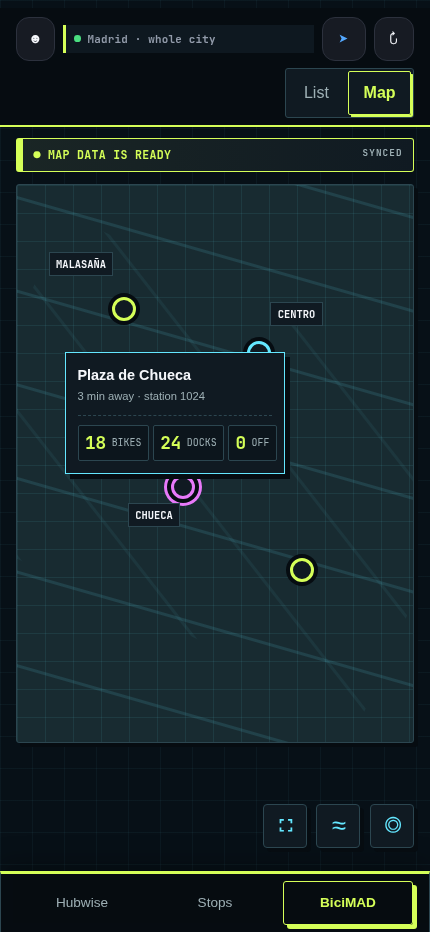
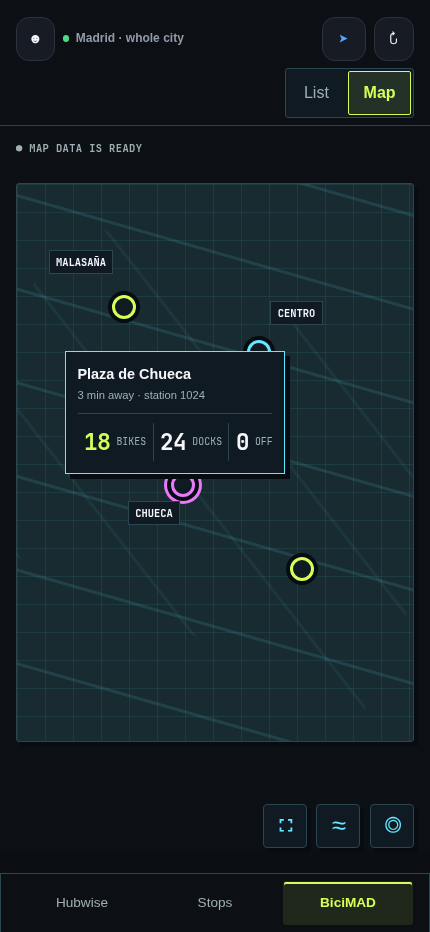
Refine signal hierarchy and responsive design studies

diff --git a/design/system-hubs.html b/design/system-hubs.html
@@ -1,3 +1,3 @@
 <!doctype html>
 <html lang="en" data-theme="dark"><head><meta charset="utf-8"><meta name="viewport" content="width=device-width,initial-scale=1"><title>Hubwise system hubs</title><link rel="stylesheet" href="../web/style.css"><style>body{min-height:100dvh}.study-label{margin:.7rem 0 .2rem;color:var(--signal-muted);font:700 .62rem ui-monospace,monospace;letter-spacing:.1em;text-transform:uppercase}</style></head>
-<body class="ui-signal ui-signal-v2 ui-signal-compact ui-signal-system"><header><button id="auth-button">☻</button><div id="header-context"><i></i><span>García Luna · 3 min</span></div><button id="nearby-stops-open">➤</button><button id="refresh-all">↻</button><nav id="view-toggle" class="segmented"><button aria-selected="true">List</button><button aria-selected="false">Map</button></nav></header><p id="status">● LIVE DATA IS READY</p><p class="study-label">Nearby hubs · expanded state</p><main id="stops"><article class="place-card reachability-comfortable routes-expanded"><div class="place-card-heading"><h2><span class="freshness-dot fresh">— &lt;1m</span> Madrid Río</h2><span class="muted">280 m</span><button class="place-directions">⌁</button><button class="place-directions">♢</button><button class="place-directions">⋯</button></div><div class="place-route"><span class="place-line">27</span><p><b>Alcalá de Henares</b></p><span class="route-later">then 40 · 52</span><time>4 min</time></div><div class="place-route place-route-alternative"><span class="place-line">5</span><p><b>Alcalá de Henares</b></p><span class="route-later">then 27</span><time>6 min</time></div><p class="age">Updated 12 seconds ago · 2 direct routes</p></article><article class="place-card reachability-tight"><div class="place-card-heading"><h2><span class="freshness-dot aging">— &lt;5m</span> Puerta del Sol</h2><span class="muted">510 m</span><button class="place-directions">⌁</button><button class="place-directions">♢</button><button class="place-directions">⋯</button></div><div class="place-route"><span class="place-line">3</span><p><b>Villaverde</b></p><span class="route-later">then 5 · 40</span><time>7 min</time></div></article><article class="place-card"><div class="place-card-heading"><h2><span class="freshness-dot fresh">— &lt;1m</span> Tribunal</h2><span class="muted">690 m</span><button class="place-directions">⌁</button><button class="place-directions">♢</button><button class="place-directions">⋯</button></div><div class="place-route"><span class="place-line">10</span><p><b>Puente de Vallecas</b></p><span class="route-later">then 5 · 40</span><time>9 min</time></div></article></main><nav id="primary-menu"><button aria-selected="true">Hubwise</button><button aria-selected="false">Stops</button><button aria-selected="false">BiciMAD</button></nav><button id="fab">+</button></body></html>
+<body class="ui-signal ui-signal-v2 ui-signal-compact ui-signal-system"><header><button id="auth-button">☻</button><div id="header-context"><i></i><span>García Luna · 3 min</span></div><button id="nearby-stops-open">➤</button><button id="refresh-all">↻</button><nav id="view-toggle" class="segmented"><button aria-selected="true">List</button><button aria-selected="false">Map</button></nav></header><p id="status">Live arrivals · updated just now</p><p class="study-label">Nearby hubs · expanded state</p><main id="stops"><article class="place-card reachability-comfortable routes-expanded"><div class="place-card-heading"><h2><span class="freshness-dot fresh"></span> Madrid Río</h2><span class="muted">280 m</span><button class="place-directions">⌁</button><button class="place-directions">♢</button><button class="place-directions">⋯</button></div><div class="place-route"><span class="place-line">27</span><p><button class="stop-open place-stop-open">Stop 1836 · 180 m walk</button><br><small>direct <span class="route-later">· then 40 · 52 min</span></small></p><button class="place-route-directions" aria-label="Walking directions">↗</button><time>4 min</time></div><div class="place-route place-route-alternative"><span class="place-line">5</span><p><button class="stop-open place-stop-open">Stop 1836 · 180 m walk</button><br><small>direct <span class="route-later">· then 27 min</span></small></p><button class="place-route-directions" aria-label="Walking directions">↗</button><time>6 min</time></div><p class="age">Updated 12 seconds ago · 2 direct routes</p></article><article class="place-card reachability-tight"><div class="place-card-heading"><h2><span class="freshness-dot aging"></span> Puerta del Sol</h2><span class="muted">510 m</span><button class="place-directions">⌁</button><button class="place-directions">♢</button><button class="place-directions">⋯</button></div><div class="place-route"><span class="place-line">3</span><p><button class="stop-open place-stop-open">Stop 1836 · 180 m walk</button><br><small>direct <span class="route-later">· then 5 · 40 min</span></small></p><button class="place-route-directions" aria-label="Walking directions">↗</button><time>7 min</time></div></article><article class="place-card"><div class="place-card-heading"><h2><span class="freshness-dot fresh"></span> Tribunal</h2><span class="muted">690 m</span><button class="place-directions">⌁</button><button class="place-directions">♢</button><button class="place-directions">⋯</button></div><div class="place-route"><span class="place-line">10</span><p><button class="stop-open place-stop-open">Stop 1836 · 180 m walk</button><br><small>direct <span class="route-later">· then 5 · 40 min</span></small></p><button class="place-route-directions" aria-label="Walking directions">↗</button><time>9 min</time></div></article></main><nav id="primary-menu"><button aria-selected="true">Hubwise</button><button aria-selected="false">Stops</button><button aria-selected="false">BiciMAD</button></nav><button id="fab">+</button></body></html>

diff --git a/design/system-stops.html b/design/system-stops.html
@@ -1,3 +1,3 @@
 <!doctype html>
 <html lang="en" data-theme="dark"><head><meta charset="utf-8"><meta name="viewport" content="width=device-width,initial-scale=1"><title>Hubwise system stops</title><link rel="stylesheet" href="../web/style.css"><style>body{min-height:100dvh}.study-label{margin:.7rem 0 .2rem;color:var(--signal-muted);font:700 .62rem ui-monospace,monospace;letter-spacing:.1em;text-transform:uppercase}</style></head>
-<body class="ui-signal ui-signal-v2 ui-signal-compact ui-signal-system"><header><button id="auth-button">☻</button><div id="header-context"><i></i><span>4 saved stops</span></div><button id="nearby-stops-open">➤</button><button id="refresh-all">↻</button><nav id="view-toggle" class="segmented"><button aria-selected="true">List</button><button aria-selected="false">Map</button></nav></header><p id="status">● LIVE DATA IS READY</p><p class="study-label">Saved stops · live arrivals</p><main id="stops"><article class="stop"><div class="head"><div class="title"><h2><span class="freshness-dot fresh">— &lt;1m</span> Puerta del Sol</h2><p class="stop-num">Stop 30 · Metro Sol</p></div><div class="controls"><button class="icon-btn">›</button><button class="icon-btn">♧</button><button class="icon-btn">⌁</button></div></div><ul><li><span class="line">5</span><span class="destination">Casa de Campo</span><span class="eta">2 min</span></li><li><span class="line">3</span><span class="destination">Villaverde</span><span class="eta">7 min</span></li><li><span class="line">40</span><span class="destination">Tribunal</span><span class="eta">11 min</span></li></ul><p class="age">Updated 12 seconds ago</p></article><article class="stop"><div class="head"><div class="title"><h2><span class="freshness-dot aging">— &lt;5m</span> Plaza de Castilla</h2><p class="stop-num">Stop 1547 · Chamberí</p></div><div class="controls"><button class="icon-btn">›</button><button class="icon-btn">♧</button><button class="icon-btn">⌁</button></div></div><ul><li><span class="line">1</span><span class="destination">Valdecarros</span><span class="eta">3 min</span></li><li><span class="line">9</span><span class="destination">Argentina</span><span class="eta">6 min</span></li></ul><p class="age">Updated 1 minute ago</p></article><article class="stop"><div class="head"><div class="title"><h2><span class="freshness-dot fresh">— &lt;1m</span> Tribunal</h2><p class="stop-num">Stop 2659 · Tribunal</p></div><div class="controls"><button class="icon-btn">›</button><button class="icon-btn">♧</button><button class="icon-btn">⌁</button></div></div><ul><li><span class="line">10</span><span class="destination">Puente de Vallecas</span><span class="eta">9 min</span></li><li><span class="line">51</span><span class="destination">Callas</span><span class="eta">14 min</span></li></ul><p class="age">Updated 18 seconds ago</p></article></main><nav id="primary-menu"><button aria-selected="false">Hubwise</button><button aria-selected="true">Stops</button><button aria-selected="false">BiciMAD</button></nav></body></html>
+<body class="ui-signal ui-signal-v2 ui-signal-compact ui-signal-system"><header><button id="auth-button">☻</button><div id="header-context"><i></i><span>3 saved stops</span></div><button id="nearby-stops-open">➤</button><button id="refresh-all">↻</button><nav id="view-toggle" class="segmented"><button aria-selected="true">List</button><button aria-selected="false">Map</button></nav></header><p id="status">Live arrivals · updated just now</p><p class="study-label">Saved stops · live arrivals</p><main id="stops"><article class="stop"><div class="head"><div class="title"><h2><span class="freshness-dot fresh"></span> Puerta del Sol</h2><p class="stop-num">Stop 30 · Metro Sol</p></div><div class="controls"><button class="icon-btn">›</button><button class="icon-btn">♧</button><button class="icon-btn">⌁</button></div></div><ul><li><span class="line">5</span><span class="destination">Casa de Campo</span><span class="eta">2 min</span></li><li><span class="line">3</span><span class="destination">Villaverde</span><span class="eta">7 min</span></li><li><span class="line">40</span><span class="destination">Tribunal</span><span class="eta">11 min</span></li></ul><p class="age">Updated 12 seconds ago</p></article><article class="stop"><div class="head"><div class="title"><h2><span class="freshness-dot aging"></span> Plaza de Castilla</h2><p class="stop-num">Stop 1547 · Chamberí</p></div><div class="controls"><button class="icon-btn">›</button><button class="icon-btn">♧</button><button class="icon-btn">⌁</button></div></div><ul><li><span class="line">1</span><span class="destination">Valdecarros</span><span class="eta">3 min</span></li><li><span class="line">9</span><span class="destination">Argentina</span><span class="eta">6 min</span></li></ul><p class="age">Updated 1 minute ago</p></article><article class="stop"><div class="head"><div class="title"><h2><span class="freshness-dot fresh"></span> Tribunal</h2><p class="stop-num">Stop 2659 · Tribunal</p></div><div class="controls"><button class="icon-btn">›</button><button class="icon-btn">♧</button><button class="icon-btn">⌁</button></div></div><ul><li><span class="line">10</span><span class="destination">Puente de Vallecas</span><span class="eta">9 min</span></li><li><span class="line">51</span><span class="destination">Callas</span><span class="eta">14 min</span></li></ul><p class="age">Updated 18 seconds ago</p></article></main><nav id="primary-menu"><button aria-selected="false">Hubwise</button><button aria-selected="true">Stops</button><button aria-selected="false">BiciMAD</button></nav></body></html>

diff --git a/design/system-sheet.html b/design/system-sheet.html
@@ -1,3 +1,3 @@
 <!doctype html>
-<html lang="en" data-theme="dark"><head><meta charset="utf-8"><meta name="viewport" content="width=device-width,initial-scale=1"><title>Hubwise system sheet</title><link rel="stylesheet" href="../web/style.css"><style>body{min-height:100dvh;background:#071017}.veil{position:fixed;inset:0;background:rgb(0 0 0/.62);z-index:1}dialog[open]{position:fixed;z-index:2;inset:auto 1rem 1rem;margin:0 auto;width:min(94vw,30rem);max-height:80dvh;overflow:auto}dialog h2{margin:0}.sheet-title-row{border-bottom:1px solid var(--signal-line);padding-bottom:.6rem}.sheet-title-row h2{font-size:1.1rem}.stop-num{margin:.25rem 0 .7rem}.sheet-arrivals{list-style:none;padding:0;margin:0}.sheet-arrivals li{display:grid;grid-template-columns:3rem 1fr auto;gap:.5rem;padding:.65rem 0;border-bottom:1px dashed var(--signal-line)}.sheet-arrivals .line{color:var(--signal-coral);font:800 1.5rem ui-monospace,monospace}.sheet-arrivals .destination{color:var(--fg);font-weight:650}.sheet-arrivals .eta{color:var(--signal-lime);font:800 1rem ui-monospace,monospace}.dialog-actions{display:flex;gap:.4rem;margin-top:.8rem}.dialog-actions button{flex:1}</style></head>
-<body class="ui-signal ui-signal-v2 ui-signal-compact ui-signal-system"><header><button id="auth-button">☻</button><div id="header-context"><i></i><span>4 saved stops</span></div><button id="nearby-stops-open">➤</button><button id="refresh-all">↻</button><nav id="view-toggle" class="segmented"><button aria-selected="true">List</button><button aria-selected="false">Map</button></nav></header><p id="status">● LIVE DATA IS READY</p><main id="stops"><article class="stop"><div class="title"><h2>Puerta del Sol</h2><p class="stop-num">Stop 30 · Metro Sol</p></div><p class="age">Updated 12 seconds ago</p></article></main><div class="veil"></div><dialog open><div class="sheet-title-row"><h2>Puerta del Sol</h2><button>☆</button><button>✎</button></div><p class="stop-num">Stop 30 · Metro Sol</p><div id="sheet-map"></div><ul class="sheet-arrivals"><li><span class="line">5</span><span class="destination">Casa de Campo</span><span class="eta">2 min</span></li><li><span class="line">3</span><span class="destination">Villaverde</span><span class="eta">7 min</span></li><li><span class="line">40</span><span class="destination">Tribunal</span><span class="eta">11 min</span></li></ul><details><summary>Lines and hours today</summary></details><div class="dialog-actions"><button>Remove</button><button>⌁</button><button>Close</button></div></dialog><nav id="primary-menu"><button aria-selected="false">Hubwise</button><button aria-selected="true">Stops</button><button aria-selected="false">BiciMAD</button></nav></body></html>
+<html lang="en" data-theme="dark"><head><meta charset="utf-8"><meta name="viewport" content="width=device-width,initial-scale=1"><title>Hubwise system sheet</title><link rel="stylesheet" href="../web/style.css"><style>body{min-height:100dvh}.veil{position:fixed;inset:0;background:rgb(0 0 0/.62);z-index:1}dialog[open]{position:fixed;z-index:2;inset:auto 1rem 1rem;margin:0 auto;width:min(94vw,30rem);max-height:80dvh;overflow:auto}dialog h2{margin:0}.sheet-title-row{border-bottom:1px solid var(--signal-line);padding-bottom:.6rem}.sheet-title-row h2{font-size:1.1rem}.stop-num{margin:.25rem 0 .7rem}.sheet-arrivals{list-style:none;padding:0;margin:0}.sheet-arrivals li{display:grid;grid-template-columns:3rem 1fr auto;gap:.5rem;padding:.65rem 0;border-bottom:1px dashed var(--signal-line)}.sheet-arrivals .line{color:var(--signal-coral);font:800 1.5rem ui-monospace,monospace}.sheet-arrivals .destination{color:var(--fg);font-weight:650}.sheet-arrivals .eta{color:var(--signal-lime);font:800 1rem ui-monospace,monospace}.dialog-actions{display:flex;gap:.4rem;margin-top:.8rem}.dialog-actions button{flex:1}</style></head>
+<body class="ui-signal ui-signal-v2 ui-signal-compact ui-signal-system"><header><button id="auth-button">☻</button><div id="header-context"><i></i><span>3 saved stops</span></div><button id="nearby-stops-open">➤</button><button id="refresh-all">↻</button><nav id="view-toggle" class="segmented"><button aria-selected="true">List</button><button aria-selected="false">Map</button></nav></header><p id="status">Live arrivals · updated just now</p><main id="stops"><article class="stop"><div class="title"><h2>Puerta del Sol</h2><p class="stop-num">Stop 30 · Metro Sol</p></div><p class="age">Updated 12 seconds ago</p></article></main><div class="veil"></div><dialog open><div class="sheet-title-row"><h2>Puerta del Sol</h2><button>☆</button><button>✎</button></div><p class="stop-num">Stop 30 · Metro Sol</p><div id="sheet-map"></div><ul class="sheet-arrivals"><li><span class="line">5</span><span class="destination">Casa de Campo</span><span class="eta">2 min</span></li><li><span class="line">3</span><span class="destination">Villaverde</span><span class="eta">7 min</span></li><li><span class="line">40</span><span class="destination">Tribunal</span><span class="eta">11 min</span></li></ul><details><summary>Lines and hours today</summary></details><div class="dialog-actions"><button>Remove</button><button>⌁</button><button>Close</button></div></dialog><nav id="primary-menu"><button aria-selected="false">Hubwise</button><button aria-selected="true">Stops</button><button aria-selected="false">BiciMAD</button></nav></body></html>

diff --git a/web/style.css b/web/style.css
@@ -2287,3 +2287,154 @@ body.nav-hidden #fab { transform: translateY(calc(100% + 4.15rem + env(safe-area
     animation-duration: 0.01ms !important;
   }
 }
+
+/* System refinement: give departures priority over decorative chrome. */
+:root .ui-signal.ui-signal-system {
+  background-color: var(--bg);
+  background-image: none;
+}
+
+.ui-signal-system header {
+  flex-shrink: 0;
+  border-bottom: 1px solid var(--signal-line);
+  background: var(--bg);
+}
+
+.ui-signal-system #header-context {
+  padding-left: 0;
+  border: 0;
+  background: transparent;
+  font: 650 0.75rem/1.4 system-ui, sans-serif;
+  letter-spacing: 0;
+}
+
+.ui-signal-system #status {
+  margin-block: 0.7rem;
+  padding: 0.25rem 0;
+  border: 0;
+  background: transparent;
+  color: var(--signal-muted);
+  font-size: 0.65rem;
+  letter-spacing: 0.04em;
+}
+
+/* Status text comes from the app; never imply that stale data is synced. */
+.ui-signal-system #status::after { content: none; }
+
+.ui-signal-system .segmented button[aria-selected="true"] {
+  background: color-mix(in srgb, var(--signal-lime) 10%, var(--signal-panel));
+  box-shadow: none;
+}
+
+.ui-signal-system .place-card,
+.ui-signal-system .stop,
+.ui-signal-system .bike {
+  margin-top: 0.65rem;
+  padding: 0.8rem;
+  border-radius: 6px;
+  background: var(--signal-panel);
+  box-shadow: 0 2px 0 color-mix(in srgb, var(--signal-ink) 15%, transparent);
+}
+
+.ui-signal-system .place-card::before,
+.ui-signal-system .stop::before { content: none; }
+
+.ui-signal-system .place-card.reachability-comfortable,
+.ui-signal-system .place-card.reachability-tight,
+.ui-signal-system .place-card.reachability-missed { border-left-width: 3px; }
+
+.ui-signal-system .place-card-heading {
+  grid-template-columns: minmax(0, 1fr) repeat(3, 36px);
+  gap: 0.2rem;
+}
+
+.ui-signal-system .place-card-heading h2 {
+  grid-column: 1 / -1;
+  font-size: 1rem;
+  line-height: 1.4;
+}
+
+.ui-signal-system .place-card-heading > span { font-size: 0.72rem; }
+
+.ui-signal-system .place-directions,
+.ui-signal-system .place-card-heading .track-button,
+.ui-signal-system .place-route-directions,
+.ui-signal-system .icon-btn {
+  width: 36px;
+  min-height: 36px;
+}
+
+.ui-signal-system .place-route {
+  grid-template-columns: 2.6rem minmax(0, 1fr) 36px auto;
+  gap: 0.45rem;
+  margin-top: 0.35rem;
+  padding-top: 0.65rem;
+  border-top-style: solid;
+}
+
+.ui-signal-system .place-route p { min-width: 0; overflow-wrap: anywhere; }
+.ui-signal-system .place-stop-open { text-align: left; }
+.ui-signal-system .place-line,
+.ui-signal-system .line { letter-spacing: -0.07em; }
+.ui-signal-system .place-line::after,
+.ui-signal-system .line::after { content: none; }
+
+.ui-signal-system .place-route time,
+.ui-signal-system .stop .eta {
+  color: var(--signal-lime);
+  white-space: nowrap;
+  text-shadow: none;
+  font-variant-numeric: tabular-nums;
+}
+
+.ui-signal-system .freshness-dot.fresh { color: var(--success); }
+.ui-signal-system .freshness-dot.aging { color: var(--warning); }
+.ui-signal-system .freshness-dot.stale { color: var(--danger); }
+
+.ui-signal-system .stop .head,
+.ui-signal-system .bike-head { flex-wrap: wrap; gap: 0.4rem; }
+.ui-signal-system .stop .title,
+.ui-signal-system .bike-head .title { min-width: 0; flex: 1 1 11rem; }
+.ui-signal-system .stop .title h2,
+.ui-signal-system .bike-head .title h2 { line-height: 1.4; }
+.ui-signal-system .controls { padding: 0; border: 0; background: transparent; }
+.ui-signal-system .stop li::before { content: none; }
+.ui-signal-system .stop li {
+  grid-template-columns: 2.6rem minmax(0, 1fr) auto;
+  padding-block: 0.7rem;
+  border-bottom-style: solid;
+}
+.ui-signal-system .stop .destination { grid-column: 2; font-size: 0.82rem; }
+.ui-signal-system .stop .eta { grid-column: 3; }
+.ui-signal-system .age { margin-bottom: 0; line-height: 1.5; }
+
+.ui-signal-system .bike-counts { gap: 0; border-top-style: solid; }
+.ui-signal-system .bike-metric { border: 0; border-radius: 0; background: transparent; }
+.ui-signal-system .bike-metric + .bike-metric { border-left: 1px solid var(--signal-line); }
+.ui-signal-system .bike-metric strong { font-size: 1.4rem; }
+.ui-signal-system .bike-metric:not(.good):not(.low):not(.empty) strong { color: var(--fg); }
+
+.ui-signal-system #primary-menu {
+  border-top: 1px solid var(--signal-line);
+  background: var(--bg);
+  box-shadow: 0 -6px 20px rgb(0 0 0 / 0.08);
+}
+.ui-signal-system #primary-menu button[aria-selected="true"] {
+  border-color: transparent;
+  background: color-mix(in srgb, var(--signal-lime) 10%, var(--bg));
+  box-shadow: inset 0 2px var(--signal-lime);
+}
+.ui-signal-system #fab {
+  color: var(--bg);
+  border-color: var(--signal-lime);
+  box-shadow: 3px 3px 0 color-mix(in srgb, var(--signal-lime) 25%, var(--bg));
+}
+.ui-signal-system :is(button, a, summary, [tabindex]):focus-visible {
+  outline: 2px solid var(--signal-cyan);
+  outline-offset: 3px;
+}
+
+.ui-signal-system .bike-account {
+  border-radius: 6px;
+  box-shadow: none;
+}

diff --git a/design/system-bikes.html b/design/system-bikes.html
@@ -1,3 +1,3 @@
 <!doctype html>
 <html lang="en" data-theme="dark"><head><meta charset="utf-8"><meta name="viewport" content="width=device-width,initial-scale=1"><title>Hubwise system bikes</title><link rel="stylesheet" href="../web/style.css"><style>body{min-height:100dvh}.study-label{margin:.7rem 0 .2rem;color:var(--signal-muted);font:700 .62rem ui-monospace,monospace;letter-spacing:.1em;text-transform:uppercase}</style></head>
-<body class="ui-signal ui-signal-v2 ui-signal-compact ui-signal-system"><header><button id="auth-button">☻</button><div id="header-context"><i></i><span>Whole city · updated now</span></div><button id="nearby-stops-open">➤</button><button id="refresh-all">↻</button><nav id="view-toggle" class="segmented"><button aria-selected="true">List</button><button aria-selected="false">Map</button></nav></header><p id="status">● LIVE DATA IS READY</p><p class="study-label">BiciMAD nearby · 2 docks</p><section class="bike-account"><span class="bike-account-dot ready"></span><span id="bike-account-text"><span>Account active</span><small class="bike-account-freshness">checked 2m ago</small></span><button>Trips</button></section><main id="bikes"><article class="bike"><div class="bike-head"><div class="title"><h2><span class="freshness-dot fresh">— &lt;1m</span> Plaza de Chueca</h2><p class="stop-num">18 bikes · 24 docks · 3 min</p></div><span class="bike-card-distance">3 min</span><div class="controls"><button class="bike-favourite">★</button><button class="bike-directions">⌁</button></div></div><div class="bike-counts"><div class="bike-metric good"><strong>18</strong><span>bikes</span></div><div class="bike-metric"><strong>24</strong><span>docks</span></div><div class="bike-metric"><strong>0</strong><span>disabled</span></div></div><p class="age">Available now · 18 electric bikes</p></article><article class="bike"><div class="bike-head"><div class="title"><h2><span class="freshness-dot fresh">— &lt;1m</span> Calle de Bravo Murillo</h2><p class="stop-num">11 bikes · 20 docks · 5 min</p></div><span class="bike-card-distance">5 min</span><div class="controls"><button class="bike-favourite">☆</button><button class="bike-directions">⌁</button></div></div><div class="bike-counts"><div class="bike-metric good"><strong>11</strong><span>bikes</span></div><div class="bike-metric"><strong>20</strong><span>docks</span></div><div class="bike-metric"><strong>1</strong><span>disabled</span></div></div><p class="age">Available now · 11 electric bikes</p></article></main><nav id="primary-menu"><button aria-selected="false">Hubwise</button><button aria-selected="false">Stops</button><button aria-selected="true">BiciMAD</button></nav></body></html>
+<body class="ui-signal ui-signal-v2 ui-signal-compact ui-signal-system"><header><button id="auth-button">☻</button><div id="header-context"><i></i><span>Whole city · updated now</span></div><button id="nearby-stops-open">➤</button><button id="refresh-all">↻</button><nav id="view-toggle" class="segmented"><button aria-selected="true">List</button><button aria-selected="false">Map</button></nav></header><p id="status">Live arrivals · updated just now</p><p class="study-label">BiciMAD nearby · 2 docks</p><section class="bike-account"><span class="bike-account-dot ready"></span><span id="bike-account-text"><span>Account active</span><small class="bike-account-freshness">checked 2m ago</small></span><button>Trips</button></section><main id="bikes"><article class="bike"><div class="bike-head"><div class="title"><h2><span class="freshness-dot fresh"></span> Plaza de Chueca</h2><p class="stop-num">18 bikes · 24 docks · 3 min</p></div><span class="bike-card-distance">3 min</span><div class="controls"><button class="bike-favourite">★</button><button class="bike-directions">⌁</button></div></div><div class="bike-counts"><div class="bike-metric good"><strong>18</strong><span>bikes</span></div><div class="bike-metric"><strong>24</strong><span>docks</span></div><div class="bike-metric"><strong>0</strong><span>disabled</span></div></div><p class="age">Available now · 18 electric bikes</p></article><article class="bike"><div class="bike-head"><div class="title"><h2><span class="freshness-dot fresh"></span> Calle de Bravo Murillo</h2><p class="stop-num">11 bikes · 20 docks · 5 min</p></div><span class="bike-card-distance">5 min</span><div class="controls"><button class="bike-favourite">☆</button><button class="bike-directions">⌁</button></div></div><div class="bike-counts"><div class="bike-metric good"><strong>11</strong><span>bikes</span></div><div class="bike-metric"><strong>20</strong><span>docks</span></div><div class="bike-metric"><strong>1</strong><span>disabled</span></div></div><p class="age">Available now · 11 electric bikes</p></article></main><nav id="primary-menu"><button aria-selected="false">Hubwise</button><button aria-selected="false">Stops</button><button aria-selected="true">BiciMAD</button></nav></body></html>

diff --git a/design/README.md b/design/README.md
@@ -1,0 +1,28 @@
+# Signal system studies
+
+Serve the repository with `python3 -m http.server 4174` and open
+`http://localhost:4174/design/system-hubs.html`. The other studies are
+`system-stops.html`, `system-bikes.html`, `system-map.html`, and `system-sheet.html`.
+These are static fixtures using the app stylesheet; they do not request live data.
+To inspect light mode, change the root `data-theme` attribute to `light` in DevTools.
+
+## September refinement
+
+Departures now carry the strongest emphasis. Status and navigation have quieter
+borders, hub titles occupy their own row, and arrival times use a consistent green.
+Route numbers retain their offset shadow. Bike counts use simple dividers, with
+neutral colors for dock and disabled counts. Freshness retains its state colors.
+
+The CSS-generated “SYNCED” label has been removed so that status copy remains
+controlled by the app. Fixtures no longer duplicate CSS-generated freshness text,
+and hub rows now include the boarding-stop link, connection detail, walking action,
+and ETA used by the application.
+
+Screenshots in `screenshots/system-*.png` cover five surfaces in dark and light mode.
+Chromium checked all five fixtures at 320, 390, 430, and 768px in both themes:
+40 combinations, no document-level horizontal overflow. Screenshots use 430 × 932px.
+These checks cover static layout, not live map or account interactions.
+
+Validation: 148 API tests, 19 web tests, 120-element DOM smoke check, and
+`git diff --check` passed. The installed Workers test runtime reports an older
+compatibility date than configured; the tests still pass.
